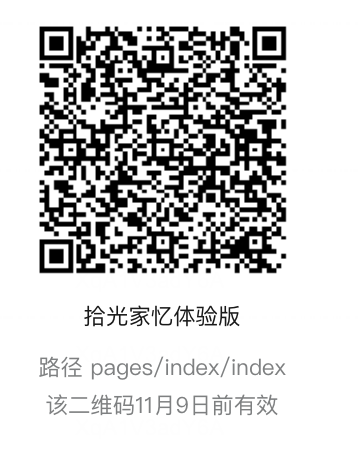
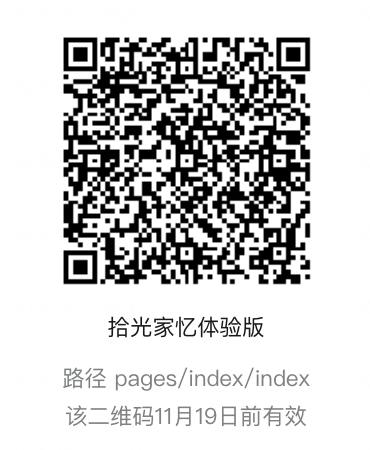
fix(shiguang): refresh trial mini-program entry and document connection repair

diff --git a/client/src/features/shiguang/WechatEntry.tsx b/client/src/features/shiguang/WechatEntry.tsx
@@ -30,19 +30,19 @@ export function WechatEntry({
           <div>
             <img
               src={qrSrc}
-              width={358}
-              height={458}
+              width={370}
+              height={450}
               alt={
                 english
-                  ? "拾光家忆 trial mini program code, valid before November 9, 2026"
-                  : "拾光家忆体验版二维码，2026年11月9日前有效，使用微信扫一扫"
+                  ? "拾光家忆 trial mini program code, valid before November 19, 2026"
+                  : "拾光家忆体验版二维码，2026年11月19日前有效，使用微信扫一扫"
               }
             />
           </div>
           <figcaption>
             {english
-              ? "Trial · valid before Nov 9, 2026"
-              : "体验版 · 11 月 9 日前有效"}
+              ? "Trial · valid before Nov 19, 2026"
+              : "体验版 · 11 月 19 日前有效"}
           </figcaption>
         </figure>
       )}

diff --git a/client/src/pages/ShiguangLandingPage.tsx b/client/src/pages/ShiguangLandingPage.tsx
@@ -232,7 +232,7 @@ export default function ShiguangLandingPage() {
             <span><strong>{english ? "Computer" : "电脑版"}</strong><small>{english ? "Turn what you kept into a personal film." : "制作美丽的私人影像"}</small></span>
             <ArrowIcon />
           </a>
-          <WechatEntry english={english} qrSrc="/shiguang/wechat-trial-qr.png" />
+          <WechatEntry english={english} qrSrc="/shiguang/wechat-trial-qr.png?v=20261112" />
         </div>
       </Dialog.Content>
     </Dialog.Portal>

diff --git a/client/src/features/shiguang/WechatEntry.test.tsx b/client/src/features/shiguang/WechatEntry.test.tsx
@@ -7,5 +7,5 @@ it("shows the supplied trial mini-program code and its expiry", () => {
   const html = renderToStaticMarkup(<WechatEntry qrSrc="/shiguang/wechat-trial-qr.png" />);
   expect(html).toContain('src="/shiguang/wechat-trial-qr.png"');
   expect(html).toContain("微信扫一扫，进入体验版");
-  expect(html).toContain("11 月 9 日前有效");
+  expect(html).toContain("11 月 19 日前有效");
 });

diff --git a/docs/qa/2026-11-12-connection-and-miniapp-entry.md b/docs/qa/2026-11-12-connection-and-miniapp-entry.md
@@ -1,0 +1,23 @@
+# 正式站连接中断与手机体验版入口更新
+
+用户报告Chrome访问`https://www.drinkingtime.top/shiguang/`出现`ERR_CONNECTION_CLOSED`，随后要求将手机小程序入口替换为提供的拾光家忆体验版二维码。
+
+## 根因和最小修复
+
+- 生产ready/mysql/authentication required正常；服务器经正式域名访问落地页200，证书包含主域与www，2026-12-15到期。不是此次前端构建异常。
+- Mac系统代理是ClashX 127.0.0.1:7890，DNS与TUN使用198.18虚拟地址。虚拟地址本身正常，强制真实IP仍失败，排除了仅DNS缓存的问题。
+- 对单个本站请求抓取Clash控制API日志：域名请求命中`DomainKeyword(.)`，由`🐟 漏网之鱼`送往美国节点；TUN只保留服务器IP时命中`Match()`，仍送往同一节点。两条路径均在TLS握手时关闭；Clash内置DIRECT访问同一HTTPS网址正常（142ms）。
+- 在当前活动配置`~/.config/clash/iKuuu_V2.yaml`仅增加首两条`DOMAIN-SUFFIX,drinkingtime.top,DIRECT`、`IP-CIDR,8.160.186.193/32,DIRECT,no-resolve`，热重载并保留原代理选择。备份`iKuuu_V2.yaml.bak.drinkingtime.20261112-connection`。其他配置经解析比较完全不变，没有关闭代理或降低TLS校验。
+- 新规则下浏览器显式代理与普通TUN请求都返回正确页面/发布版本/ready。本机连接失败此前已出现，却仅凭ECS回环公网验证结束验收，是上次发布检查的遗漏；以后必须包含用户电脑的实际代理路径。若更换订阅配置或服务器IP，应检查这两个局部例外仍适用。
+- 浏览器自动操作工具在读取Chrome时因当前URL限制结束，未绕过限制；实际连接证据来自同机HTTP客户端与同一系统代理路径，不宣称已完成Chrome交互复验。
+
+## 手机入口
+
+- 原样使用用户截图替换`client/public/shiguang/wechat-trial-qr.png`；370×450，未重绘、改码或生成二维码。
+- 保持现有双端选择与微信体验版区域；中英文有效期由11月9日改为11月19日前，图片URL追加`?v=20261112`防止沿用旧缓存。
+- 更新图片固有尺寸声明，保持原有二维码显示区域；系统Vision只读识别及边界检查结果见证据目录。不访问二维码链接、不添加体验者。
+- 对应WechatEntry、ShiguangLandingPage、AppRouter三文件18项回归通过。系统Vision成功识别二维码，目标主机为open.weixin.qq.com，完整码位于现有展示区域内；未打开二维码链接。
+- 类型检查、99张功能卡校验和生产构建通过；构建内77项草稿保护测试通过。隔离构建首次因共享node_modules缓存写入被沙箱阻止，获得所需缓存写入权限后原命令通过，无代码调整。
+- 未做手机实际微信扫码验收，体验码权限及有效期以微信为准。发布结果完成后补记。
+
+证据目录：`/Users/yuandai/Documents/Codex/2026-11-09/drinking-time-workflow/incident-20261112-connection/`。

diff --git a/docs/handoff/SESSION-BOARD.md b/docs/handoff/SESSION-BOARD.md
@@ -24,6 +24,8 @@
 
 ## 当前在场
 
+2026-11-12 chat 01a1bedb 手机入口发布进行中：连接故障已定位Mac ClashX错误代理路由；已为本站域名与服务器/32补DIRECT例外，显式代理及TUN请求恢复。浏览器自动操作因URL限制停止，未绕过。按用户截图原样替换微信体验版二维码；18入口/77草稿保护测试、类型、99卡、构建通过，正在合main与部署。保留3001与全部作品。
+
 2026-11-12 chat 01a1bedb 三天代码联合发布已完成，释放跨分支收敛与部署窗口：七处来源352路径已合main并push，应用源码0e27e2aa已上线drinkingtime.top，前端b9cc5a9c。7732全量、73 MySQL、215小程序、14 Python通过；生产278资源/14脚本/13模型哈希、HTTPS与鉴权验证通过。5个闲置工作树已清理；用户3001、env、作品、素材和outputs保留，原始源码快照在release-20261112。无付费生成或数据库迁移；供应商/美术/多帧缺口仍按账本保留。QA docs/qa/2026-11-12-joint-release.md。
 
 
